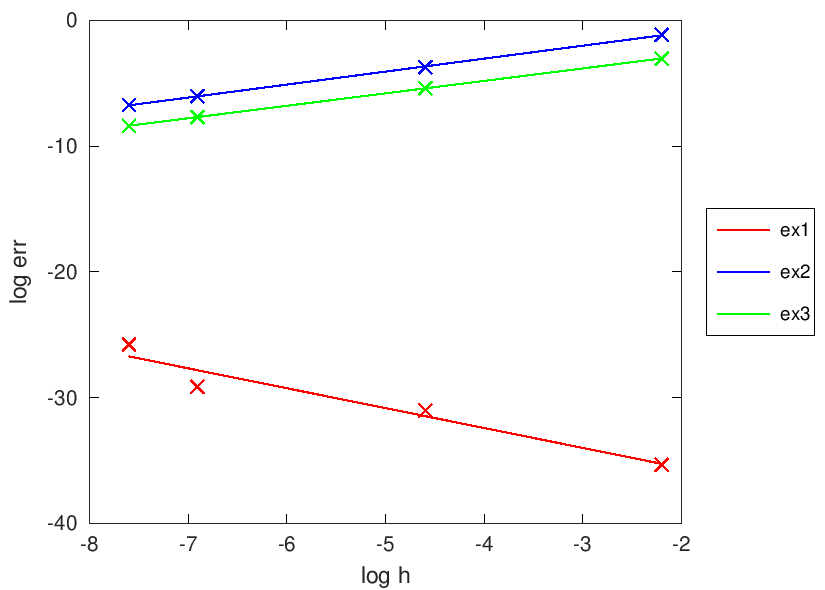
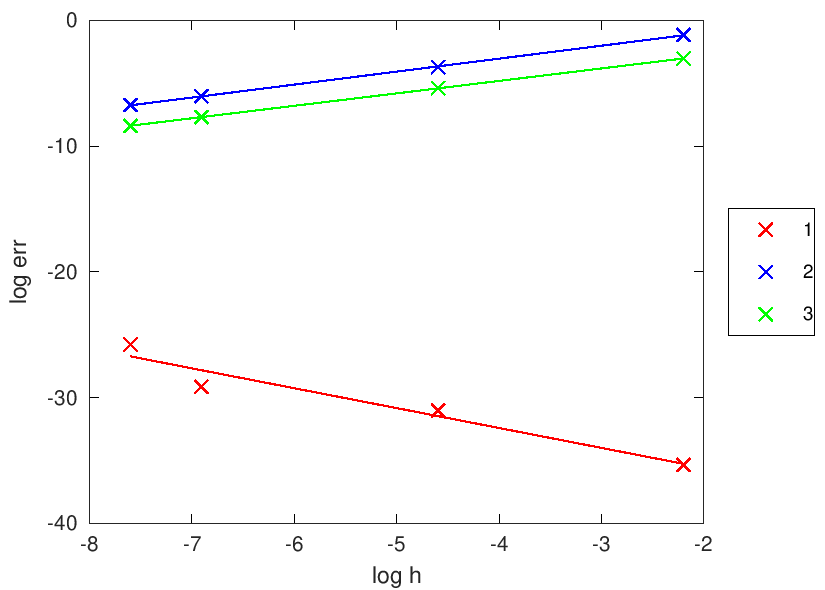
.

diff --git a/exe4/errs.m b/exe4/errs.m
@@ -23,7 +23,7 @@ NS = [10 100 1000 2000];
 
 problemas = {};
 
-p1.nome = "ex1";
+p1.nome = "1";
 
 p1.tipo_a = 1;
 p1.ua     = -1;
@@ -41,7 +41,7 @@ p1.gamma_b = [];
 
 problemas = [problemas, p1];
 
-p2.nome = "ex2";
+p2.nome = "2";
 
 p2.tipo_a = 2;
 p2.ua     = [];
@@ -59,7 +59,7 @@ p2.gamma_b = [];
 
 problemas = [problemas, p2];
 
-p3.nome = "ex3";
+p3.nome = "3";
 
 p3.tipo_a = 1;
 p3.ua     = -1;
@@ -132,7 +132,7 @@ for i = 1 : size(data)(2)
     hnlr1 = plot(hs, errs,    [colors{i} 'x'], 'LineWidth', 2); hold on;
     hdlr2 = plot(hs, fiterrs, [colors{i} '-'], 'LineWidth', 2); hold on;
 
-    handlers = [handlers, hdlr2];
+    handlers = [handlers, hnlr1];
 
     % plotData = [plotData, {hs; errs;    'x'; 'LineWidth'; 2}];
     % plotData = [plotData, {hs; fiterrs; '-'; 'LineWidth'; 2}];
